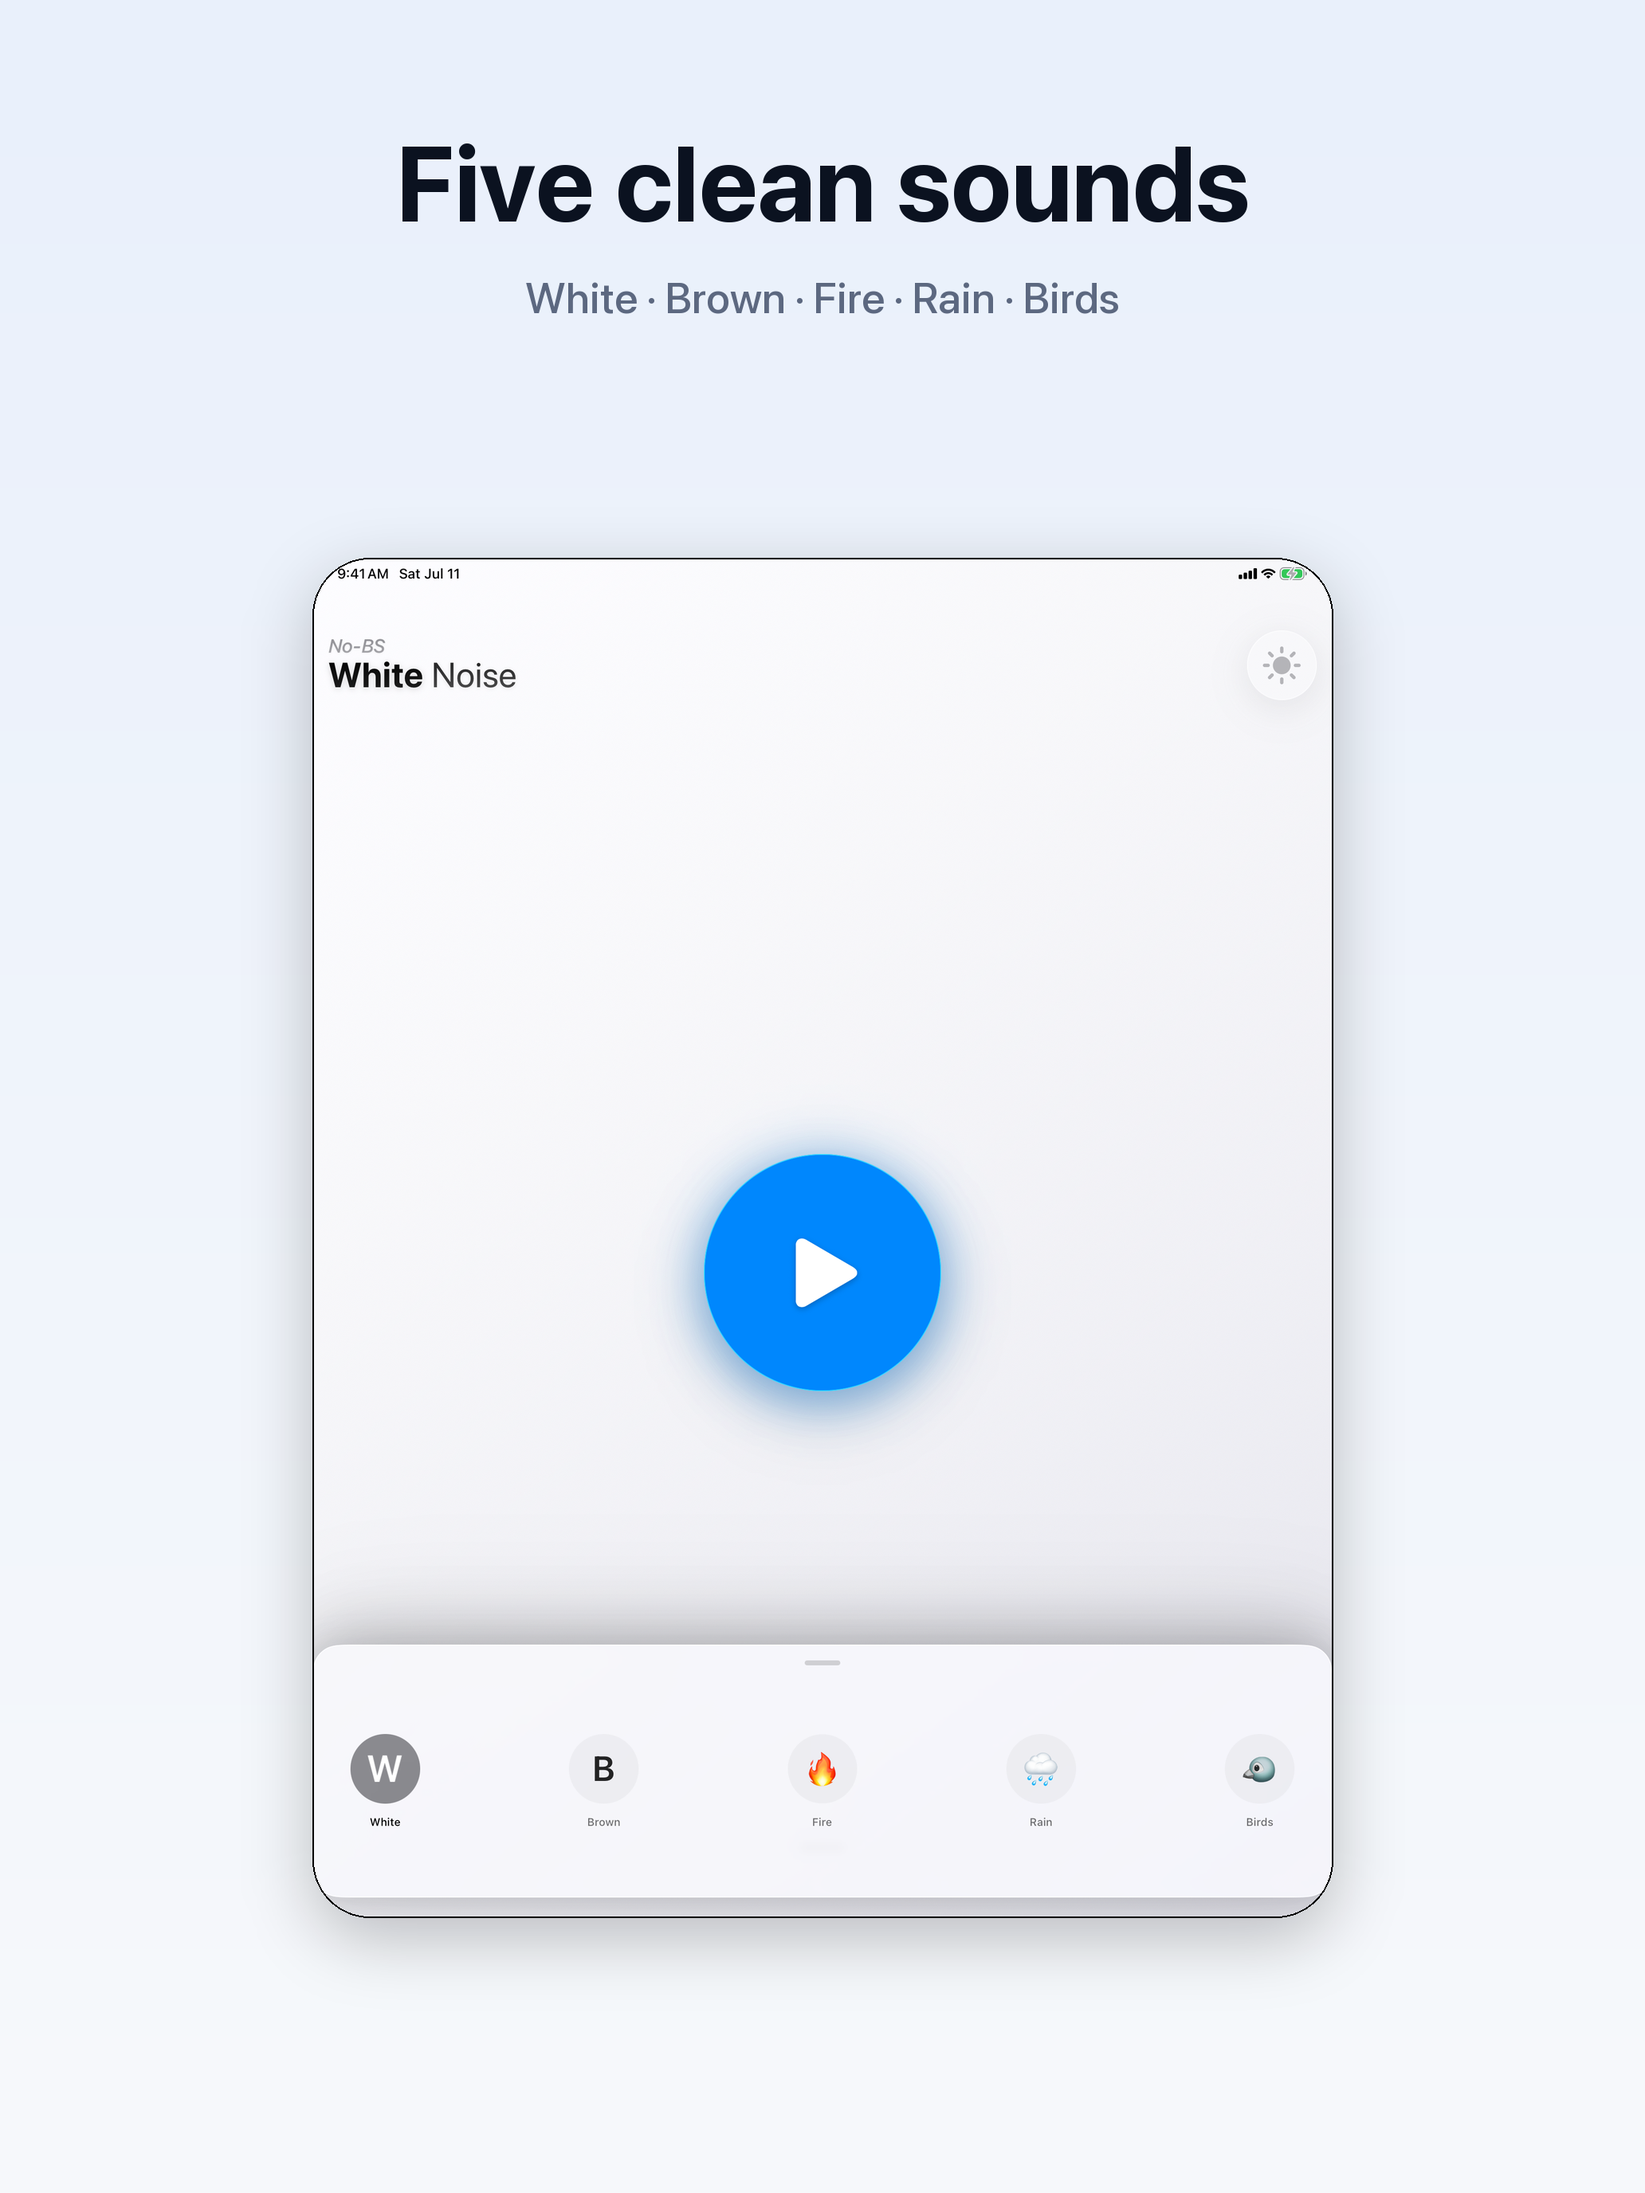
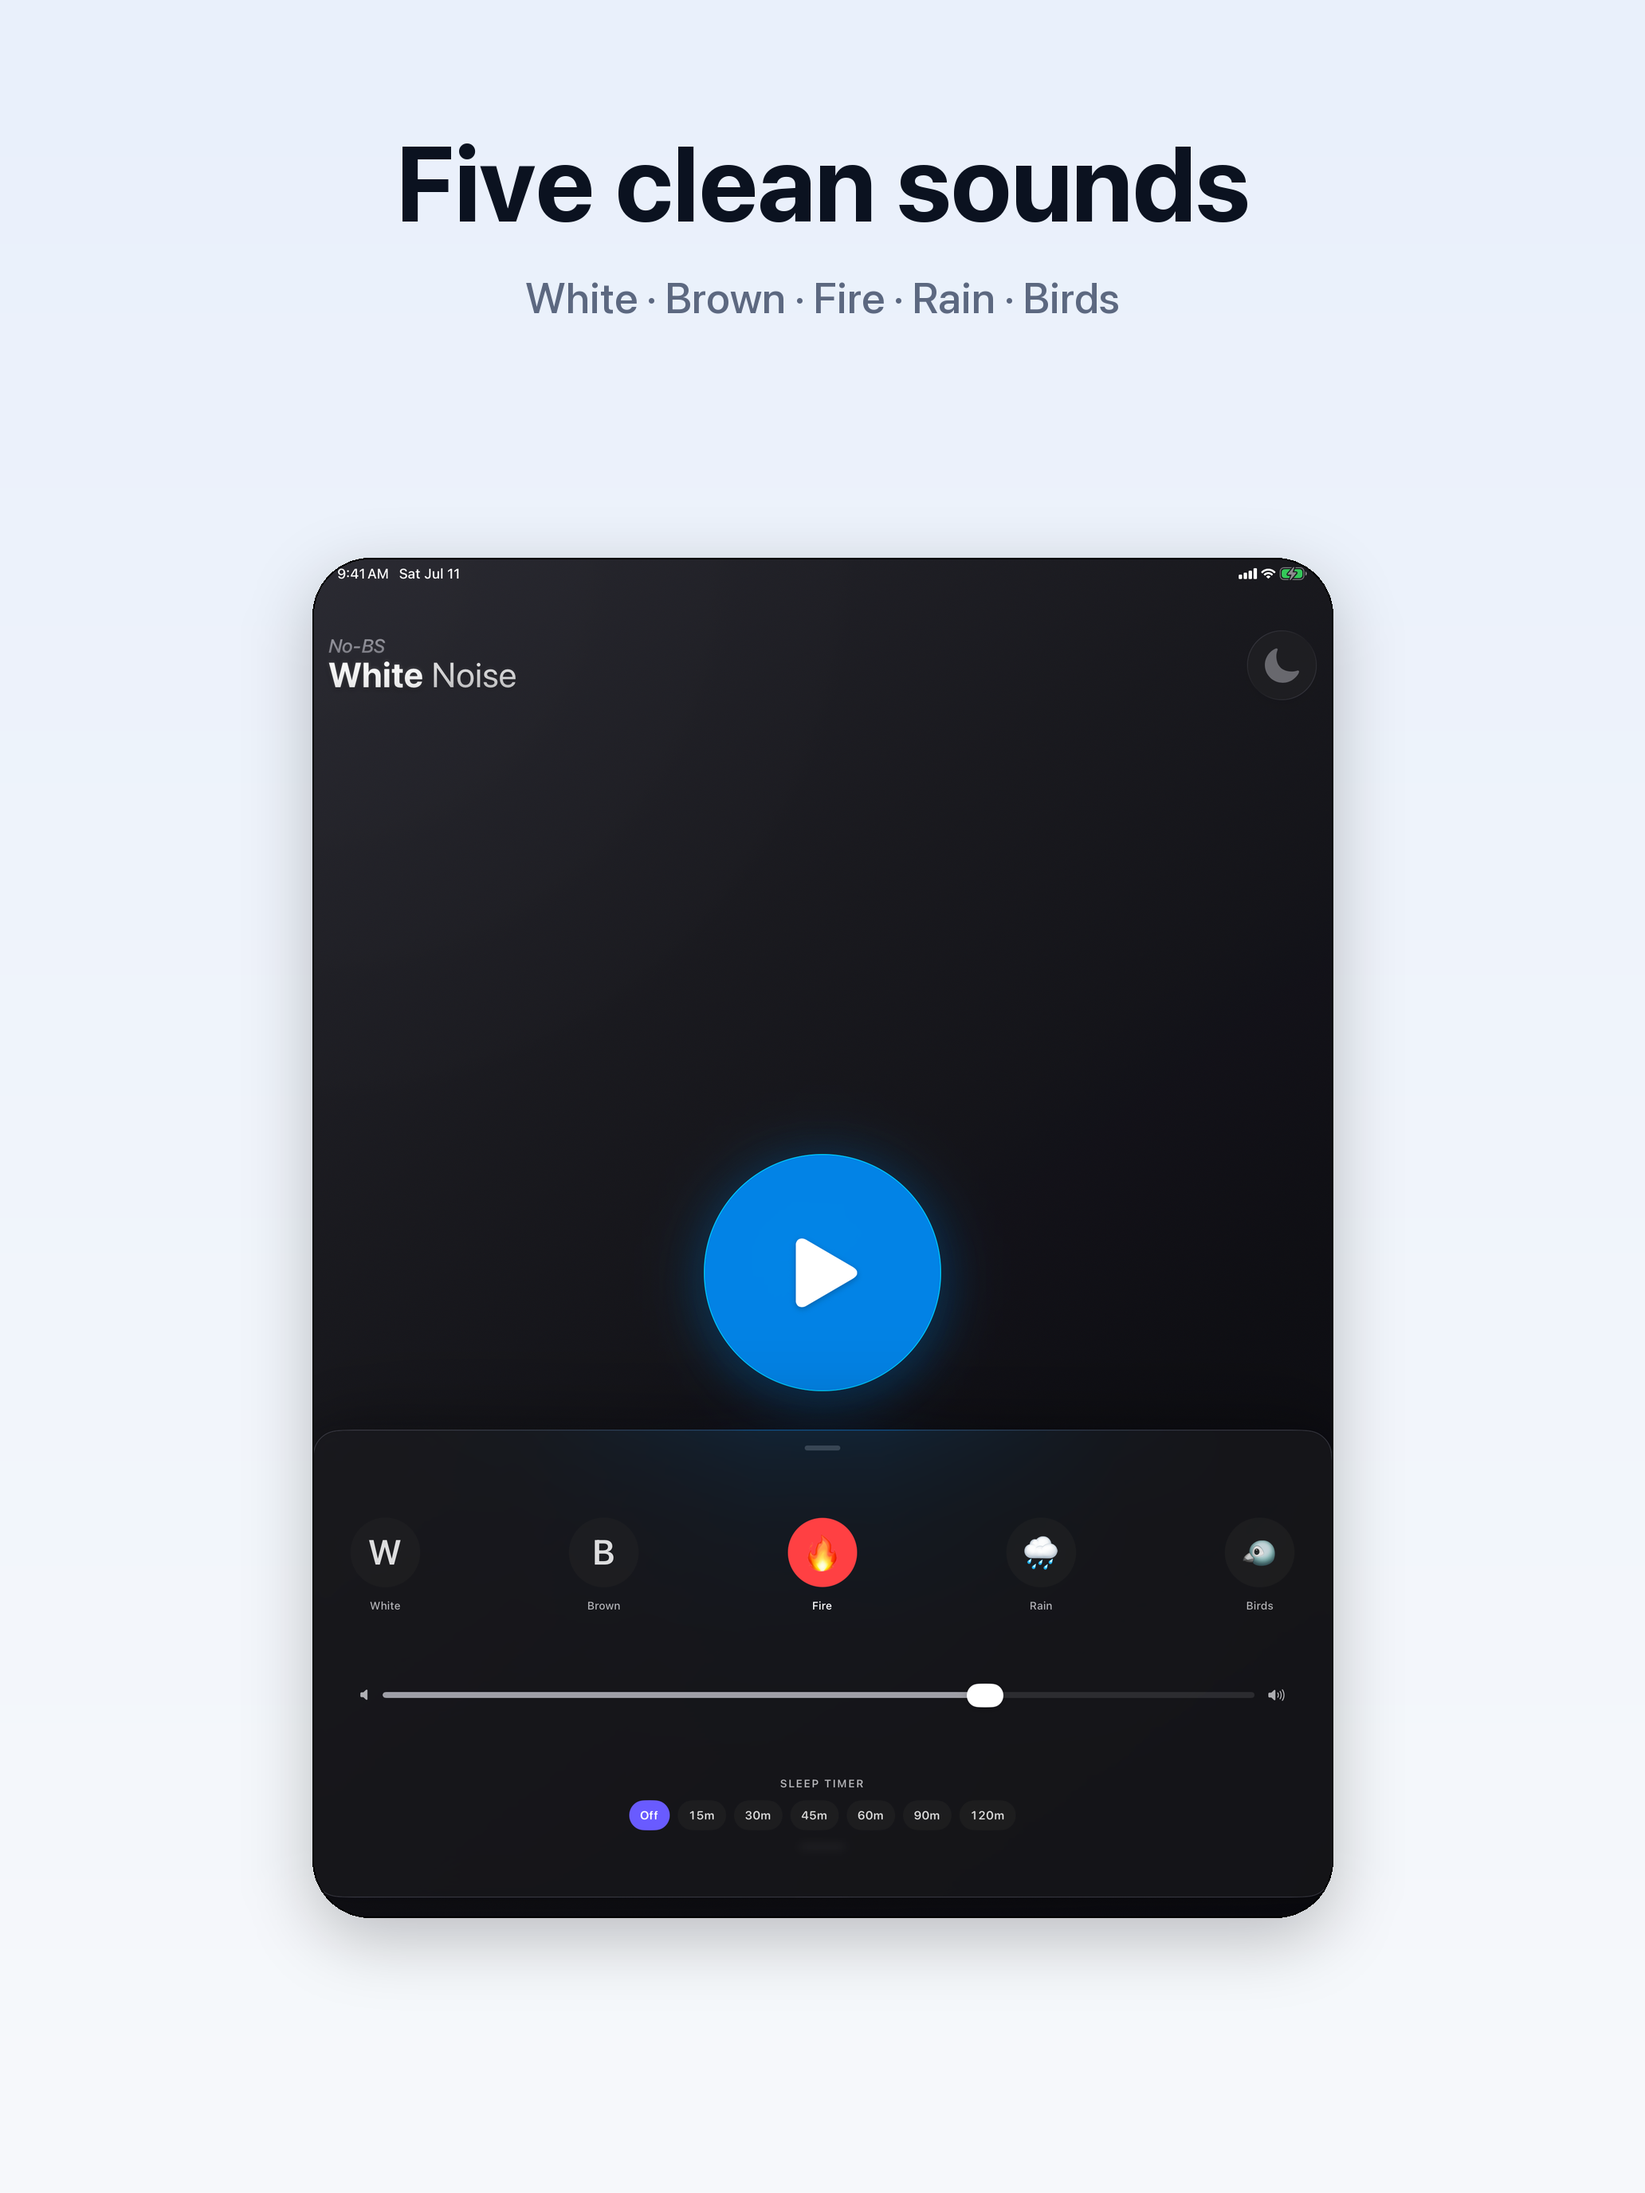
P2: add fade in/out and master volume control
- 0.5s fade-in on play, 0.3s fade-out on manual stop (MP3 + engine paths)
- Shared fadeCurrentAudio(to:duration:) helper; sleep-timer fade reuses it
- Master volume slider in the drawer (@AppStorage, default 0.7), applies
  live during playback; per-play volume = base gain x master
- Refresh iPhone + iPad marketing screenshots (drawer now shows volume +
  sleep timer; playing shot shows live countdown chip); update What's New

diff --git a/Sources/ContentView.swift b/Sources/ContentView.swift
@@ -60,6 +60,7 @@ struct ContentView: View {
     @AppStorage("themeMode") private var themeMode: ThemeMode = .light
     @State private var themeButtonOpacity: Double = 0.6
     @AppStorage("selectedSound") private var selectedSoundType: SoundType = .white
+    @AppStorage("masterVolume") private var masterVolume: Double = 0.7
     @State private var isMenuExpanded = false
     @State private var lastUserInteraction: Date = Date()
 
@@ -571,7 +572,7 @@ struct ContentView: View {
     
     /// Menu overlay height that scales with device
     private var menuOverlayHeight: CGFloat {
-        let baseHeight: CGFloat = 238  // sounds row + sleep-timer row
+        let baseHeight: CGFloat = 296  // sounds + volume + sleep-timer rows
         return baseHeight * scalingFactor
     }
     
@@ -719,6 +720,27 @@ struct ContentView: View {
                 }
                 .padding(.horizontal, soundMenuHorizontalPadding)
             }
+
+            Spacer()
+
+            // Master volume
+            HStack(spacing: 12) {
+                Image(systemName: "speaker.fill")
+                    .font(.system(size: 12, weight: .medium))
+                    .foregroundStyle(.secondary)
+                Slider(value: $masterVolume, in: 0...1)
+                    .tint(.secondary)
+                    .onChange(of: masterVolume) { _, _ in
+                        applyMasterVolume()
+                    }
+                Image(systemName: "speaker.wave.3.fill")
+                    .font(.system(size: 12, weight: .medium))
+                    .foregroundStyle(.secondary)
+            }
+            .padding(.horizontal, soundMenuHorizontalPadding + 8)
+            .accessibilityElement(children: .combine)
+            .accessibilityLabel("Volume")
+            .accessibilityValue("\(Int(masterVolume * 100)) percent")
 
             Spacer()
 
@@ -932,32 +954,72 @@ struct ContentView: View {
         }
     }
 
-    /// Plays MP3 audio using preloaded AVAudioPlayer with async handling
+    /// Plays MP3 audio using preloaded AVAudioPlayer, fading in gently
     private func playMPAudio(player: AVAudioPlayer) async {
         // Stop any current audio first
         await stopAudioSilently()
-        
-        // Configure and start the player
+
+        // Start silent, then fade in for a premium, click-free start
+        player.volume = 0
         currentAudioPlayer = player
         currentAudioPlayer?.numberOfLoops = -1 // Infinite loop
         currentAudioPlayer?.currentTime = 0
         currentAudioPlayer?.play()
+        player.setVolume(effectiveMP3Volume, fadeDuration: fadeInDuration)
     }
-    
-    /// Plays generated audio using AVAudioEngine with async handling
+
+    /// Plays generated audio using AVAudioEngine, fading in gently
     private func playGeneratedAudio() async throws {
         // Stop any current audio first
         await stopAudioSilently()
-        
+
         let engine = AVAudioEngine()
         let noiseNode = createWhiteNoiseNode()
         let lowPassFilter = createLowPassFilter()
-        
+
         setupAudioChain(engine: engine, noiseNode: noiseNode, filter: lowPassFilter)
-        
+
+        engine.mainMixerNode.outputVolume = 0
         try engine.start()
         audioEngine = engine
         whiteNoiseNode = noiseNode
+        await fadeCurrentAudio(to: Float(masterVolume), duration: fadeInDuration)
+    }
+
+    // MARK: - Volume & Fades
+
+    /// Duration of the gentle fade-in when playback starts.
+    private var fadeInDuration: TimeInterval { 0.5 }
+
+    /// The MP3 player volume for the current sound and master volume setting.
+    /// Base gain keeps MP3 loudness roughly in line with the generated sounds.
+    private var effectiveMP3Volume: Float {
+        0.45 * Float(masterVolume)
+    }
+
+    /// Fades whatever is currently playing to `target` volume over `duration`.
+    /// MP3s use AVAudioPlayer's built-in fade; the engine ramps its mixer in steps.
+    @MainActor
+    private func fadeCurrentAudio(to target: Float, duration: TimeInterval) async {
+        if let player = currentAudioPlayer {
+            player.setVolume(target, fadeDuration: duration)
+            try? await Task.sleep(for: .seconds(duration + 0.05))
+        } else if let engine = audioEngine {
+            let steps = max(6, Int(duration / 0.05))
+            let start = engine.mainMixerNode.outputVolume
+            for step in 1...steps {
+                guard !Task.isCancelled else { return }
+                let progress = Float(step) / Float(steps)
+                engine.mainMixerNode.outputVolume = start + (target - start) * progress
+                try? await Task.sleep(for: .seconds(duration / Double(steps)))
+            }
+        }
+    }
+
+    /// Applies a new master volume to whatever is currently playing (live, no fade).
+    private func applyMasterVolume() {
+        currentAudioPlayer?.volume = effectiveMP3Volume
+        audioEngine?.mainMixerNode.outputVolume = Float(masterVolume)
     }
     
     /// Creates optimized audio source node for noise generation (Performance Critical)
@@ -1036,9 +1098,10 @@ struct ContentView: View {
         engine.connect(filter, to: engine.mainMixerNode, format: nil)
     }
 
-    /// Stops audio quickly (no UI update - already done optimistically)
+    /// Stops audio with a quick fade-out (no UI update - already done optimistically)
     @MainActor
     private func stopAudioQuick() async {
+        await fadeCurrentAudio(to: 0, duration: 0.3)
         await stopAudioSilently()
     }
 
@@ -1193,27 +1256,10 @@ struct ContentView: View {
     }
 
     /// Gently fades the current audio to silence over ~3s, then stops playback.
+    /// (Volumes are re-applied on every play, so no restore is needed here.)
     @MainActor
     private func fadeOutAndStop() async {
-        let fadeDuration: TimeInterval = 3.0
-
-        if let player = currentAudioPlayer {
-            // MP3 path: built-in fade, then restore the player's volume for next play
-            let originalVolume = player.volume
-            player.setVolume(0, fadeDuration: fadeDuration)
-            try? await Task.sleep(for: .seconds(fadeDuration + 0.1))
-            player.stop()
-            player.volume = originalVolume
-        } else if let engine = audioEngine {
-            // Generated-noise path: ramp the mixer down in small steps
-            let steps = 30
-            let stepDuration = fadeDuration / Double(steps)
-            let startVolume = engine.mainMixerNode.outputVolume
-            for step in 1...steps {
-                engine.mainMixerNode.outputVolume = startVolume * Float(steps - step) / Float(steps)
-                try? await Task.sleep(for: .seconds(stepDuration))
-            }
-        }
+        await fadeCurrentAudio(to: 0, duration: 3.0)
 
         // Fully stop and update UI
         await stopAudioSilently()
@@ -1239,25 +1285,25 @@ struct ContentView: View {
     
     // MARK: - Audio Preloading
     
-    /// Efficiently preloads MP3 audio files to prevent hitches
+    /// Efficiently preloads MP3 audio files to prevent hitches.
+    /// Playback volume is applied at play time (master volume × base gain).
     private func preloadAudioFiles() {
-        let audioFiles: [(SoundType, String, Float)] = [
-            (.fire, "fire", 0.3),
-            (.rain, "rain", 0.3),
-            (.birds, "birdsounds", 0.3)
+        let audioFiles: [(SoundType, String)] = [
+            (.fire, "fire"),
+            (.rain, "rain"),
+            (.birds, "birdsounds")
         ]
-        
-        for (soundType, filename, volume) in audioFiles {
+
+        for (soundType, filename) in audioFiles {
             guard let path = Bundle.main.path(forResource: filename, ofType: "mp3") else {
                 print("Audio file not found: \(filename).mp3")
                 continue
             }
-            
+
             let url = URL(fileURLWithPath: path)
             do {
                 let player = try AVAudioPlayer(contentsOf: url)
                 player.prepareToPlay()
-                player.volume = volume
                 player.enableRate = false
                 preloadedPlayers[soundType] = player
             } catch {

diff --git a/LAUNCH_LOG.md b/LAUNCH_LOG.md
@@ -5,6 +5,24 @@ Branch: `overnight/launch-prep` — never merged to `main` automatically; review
 
 ---
 
+## 2026-07-11 — Cycle 4: P2 complete — fades + volume control ✅ (build + UI verified)
+- **Fade in/out:** playback now fades in over 0.5s (MP3 `setVolume(_:fadeDuration:)`,
+  engine mixer ramp) and manual stop fades out over 0.3s. Sound switching stays instant.
+- **Master volume:** `@AppStorage("masterVolume")` (default 0.7) with a slider row in the
+  drawer (speaker icons, combined a11y element); changes apply live to whatever is playing.
+- Refactored the sleep timer's fade into a shared `fadeCurrentAudio(to:duration:)`;
+  volumes are re-applied on every play, so the MP3 volume-restore hack is gone.
+- Preload no longer bakes in per-sound volumes (applied at play time as base × master).
+  MP3 base gain 0.45 keeps loudness near previous levels at the default master volume.
+- **Refreshed marketing screenshots** (iPhone + iPad): drawer shots now show volume +
+  sleep timer; "playing" shot shows the live countdown chip. `What's New` copy updated.
+- **Verified:** Debug + Release builds clean; drawer UI + countdown visually confirmed.
+  **Residual risk:** fades are audio-domain — not audibly verified in the sim; morning QA:
+  play/stop each sound once (fade-in/out) and drag the volume slider while playing.
+- **Next up:** P3 — Reduce Motion for the pulse, Dynamic Type pass, loudness normalization.
+
+---
+
 ## 2026-07-11 — Cycle 3: P2 sleep timer ✅ (build + UI verified; expiry logic-verified)
 - **New feature:** sleep timer with Off/15/30/45/60/90/120-min glass capsule chips in the
   sounds drawer (drawer height 160→238), indigo tint when armed, `.isSelected` a11y traits.

diff --git a/APP_STORE_METADATA.md b/APP_STORE_METADATA.md
@@ -102,8 +102,11 @@ white noise,brown noise,focus,sleep,study,meditation,rain sounds,fire,relaxation
 
 ## What's New in Version 2.1
 
-**Real Liquid Glass, and more ways to play**
+**Real Liquid Glass, a sleep timer, and more ways to play**
 
+• NEW: Sleep timer — drift off and the sound fades out on its own (15 min to 2 hours)
+• NEW: Volume control, right in the sounds drawer
+• NEW: Gentle fade-in and fade-out — no more abrupt starts and stops
 • Rebuilt the play button, sound selector, and menu with Apple's genuine iOS 26 Liquid Glass materials
 • Start any sound hands-free with Siri
 • Control playback from Control Center and the Lock Screen
